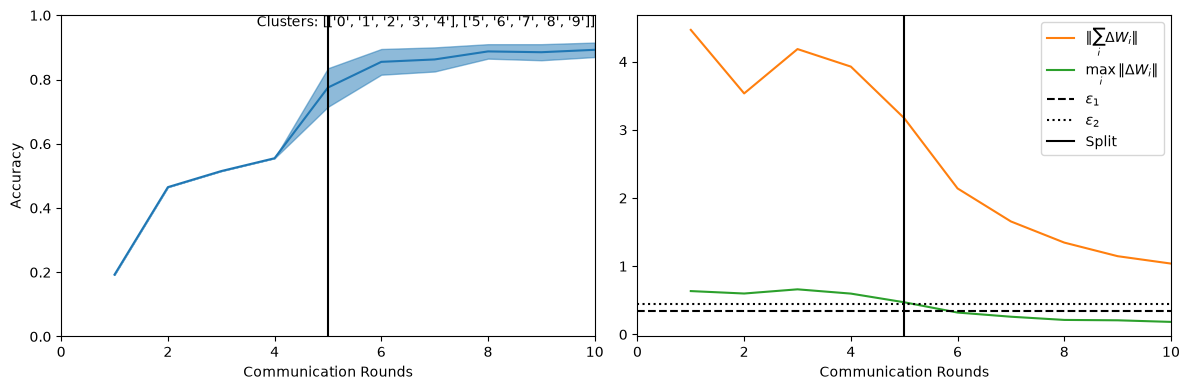
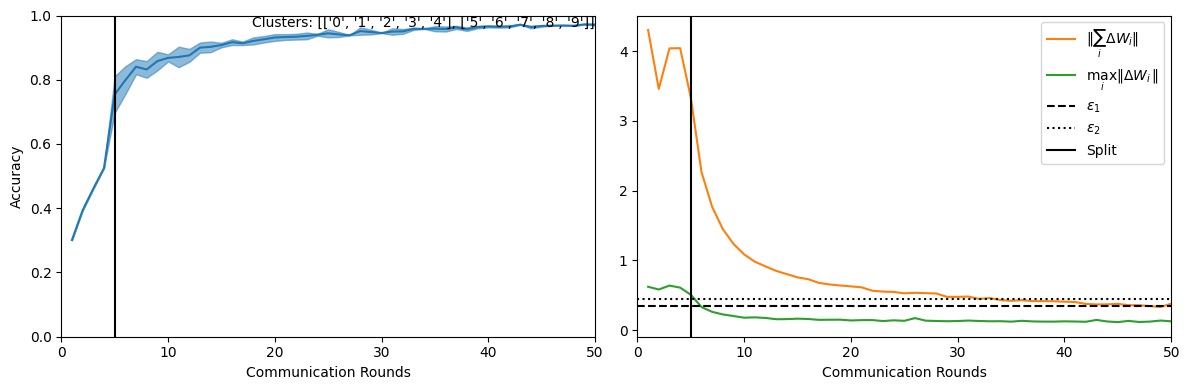
Update readme with minimum rounds results (50)

diff --git a/README.md b/README.md
@@ -2,6 +2,16 @@
   <img src="mimosa-fl.png" alt="mimosa-fl logo" width="250">
 </p>
 
+## What's mimosa
+
+**mimosa-fl** is a **thin fork** of the [Flower](https://github.com/flwrlabs/flower) framework that brings **Clustered Federated Learning (CFL)** in as a first-class capability. Clients are grouped by the cosine similarity of their weight-update directions, and each cluster keeps its own model - enabling federated **multi-task learning** on heterogeneous (non-IID) data without ever sharing raw data.
+
+### Why "mimosa"?
+
+*Mimosa pudica* is the "sensitive plant", whose leaves fold together when touched - just as clients with similar updates fold into their own cluster, each around its own model.
+
+<br>
+
 # mimosa-fl: Clustered Federated Learning
 
 > **Paper:** [Clustered Federated Learning: Model Isolation Distributed Training of Heterogeneous Data](https://arxiv.org/abs/1910.01991)
@@ -84,7 +94,7 @@ For a step-by-step walkthrough with visualizations (training curves, cluster tre
 
 ## Expected Results
 
-Results from the [quickstart notebook](examples/quickstart-cfl-pytorch/quickstart-cfl-pytorch.ipynb) with 10 simulated clients.
+Results from the [quickstart notebook](examples/quickstart-cfl-pytorch/quickstart-cfl-pytorch.ipynb) with 10 simulated clients and 50 federated rounds.
 
 **Pre-processing:** Clients are split into two groups (digits 0-4 vs 5-9) to create a pathological non-IID distribution. Half of the clients also receive rotation noise (90 degrees) on their training samples, simulating real-world data heterogeneity where clients have similar but not identical distributions.
 
@@ -92,10 +102,10 @@ CFL detects the two data clusters at round 5 and splits into two sub-models. Eac
 
 | Method | Test Accuracy | Test Precision |
 |---|---|---|
-| FedAvg | ~70% | ~92% |
-| CFL | ~90% | ~89% |
+| FedAvg | ~86% | ~97% |
+| CFL | ~97% | ~97% |
 
-Precision is macro-averaged across all 10 clients. FedAvg shows slightly higher precision but much lower accuracy: its single global model is conservative (only fires when confident), while CFL's per-cluster models recover far more correct predictions - which is what drives the accuracy gap.
+Precision is macro-averaged across all 10 clients. After 50 rounds both methods reach similar precision (~97%), but CFL's per-cluster models recover far more correct predictions: ~97% accuracy vs FedAvg's ~86%. FedAvg's single global model has to compromise across both digit groups, so it stays conservative (only fires when confident) - which keeps its precision high while its accuracy lags behind CFL.
 
 ### Non-IID Data Distribution
 
